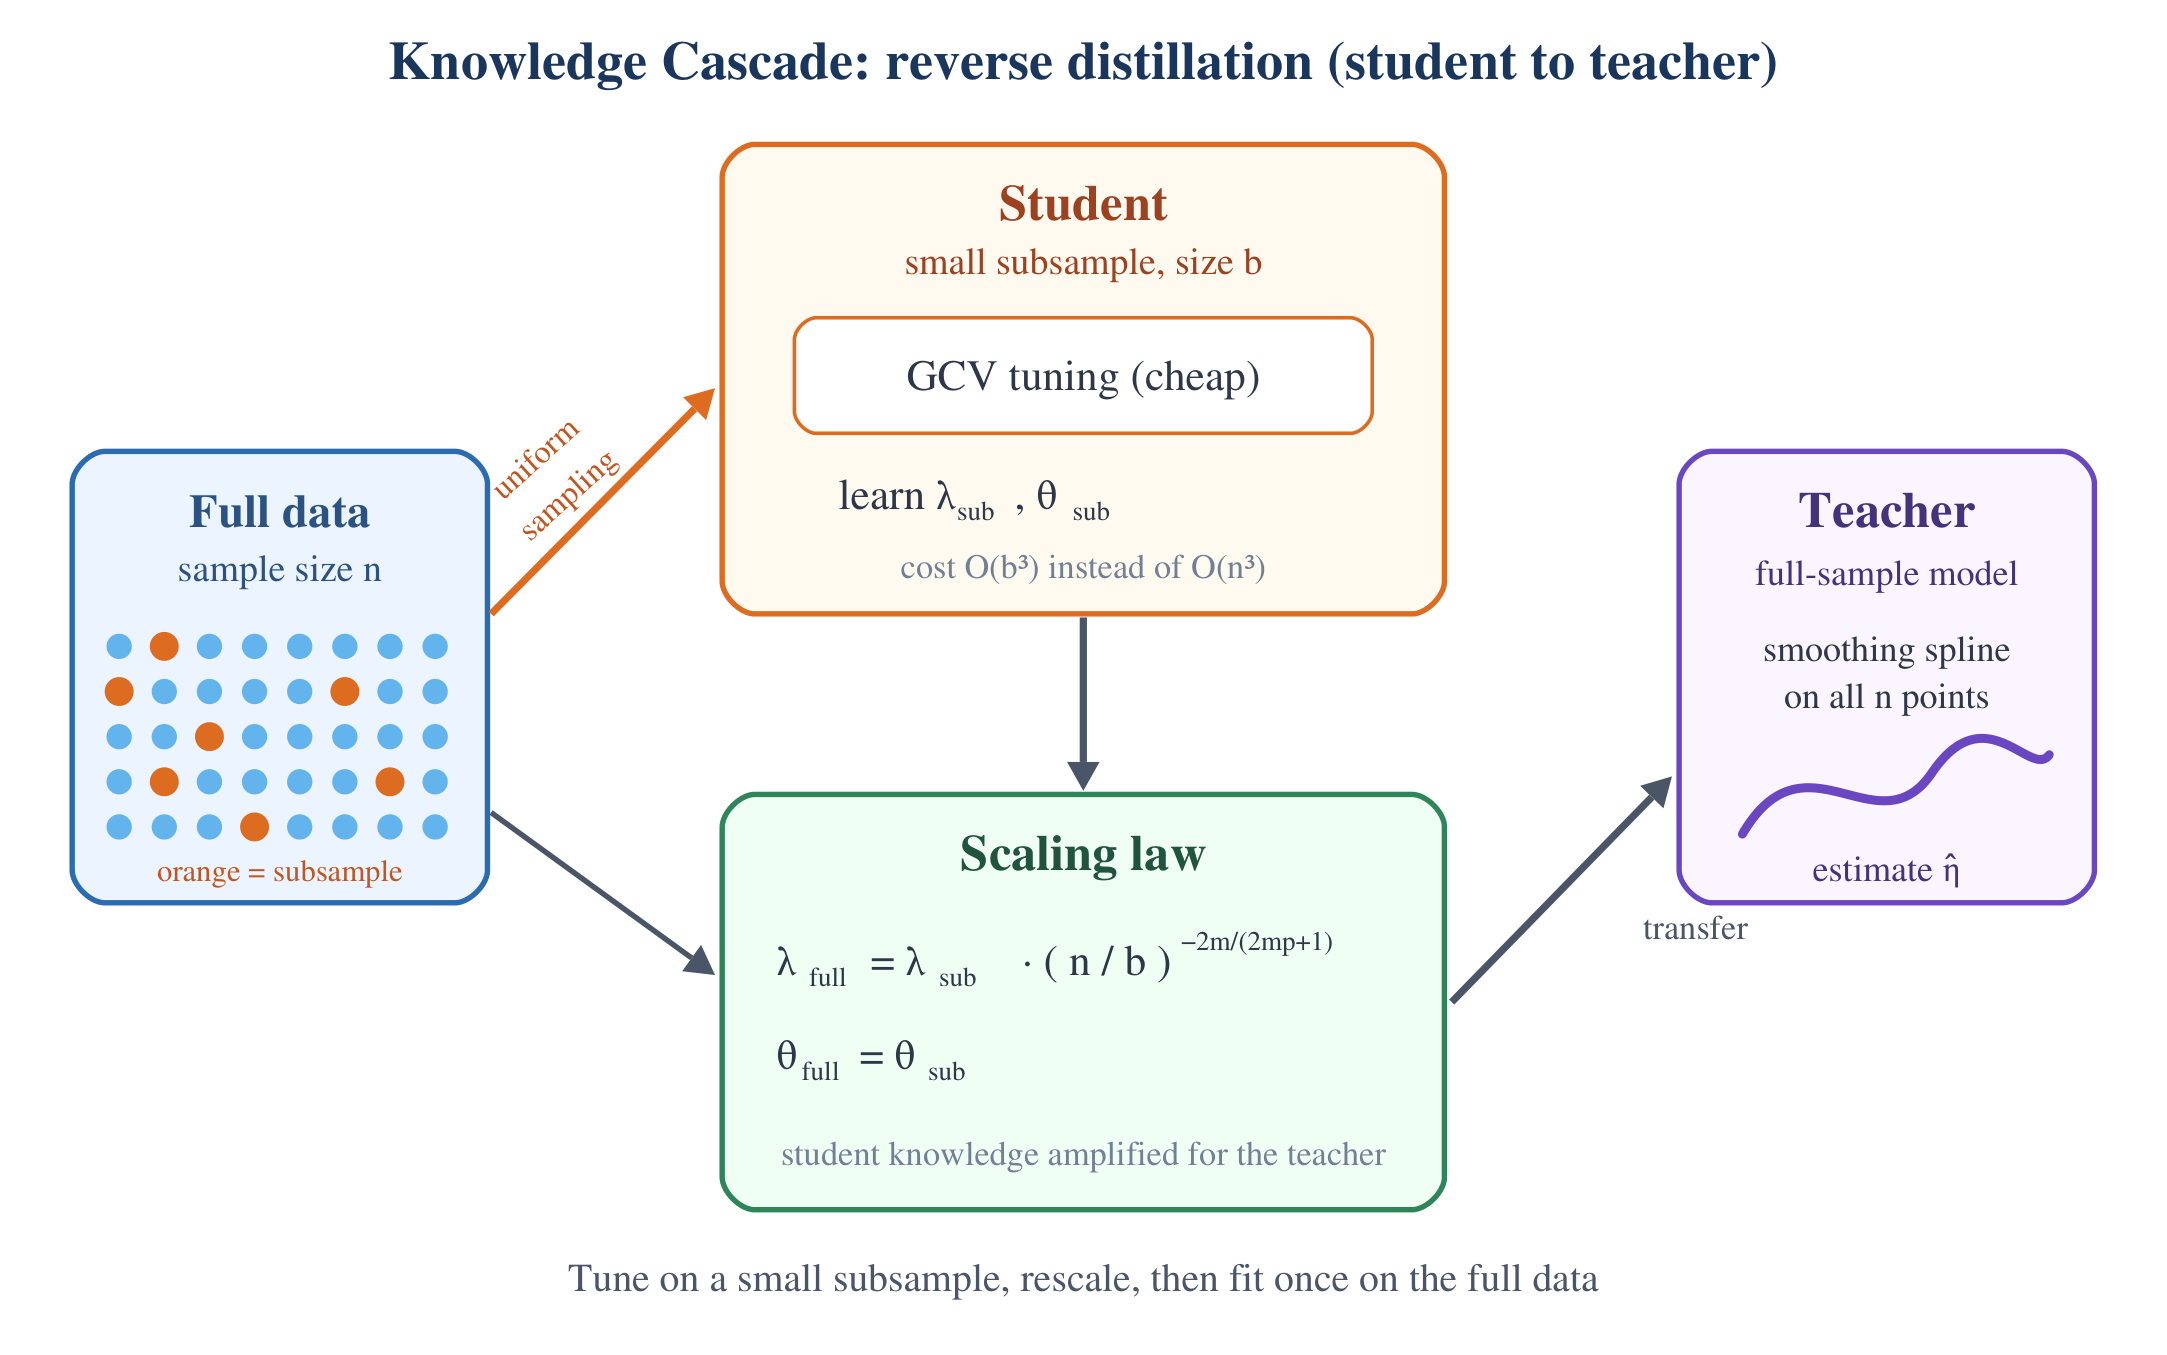
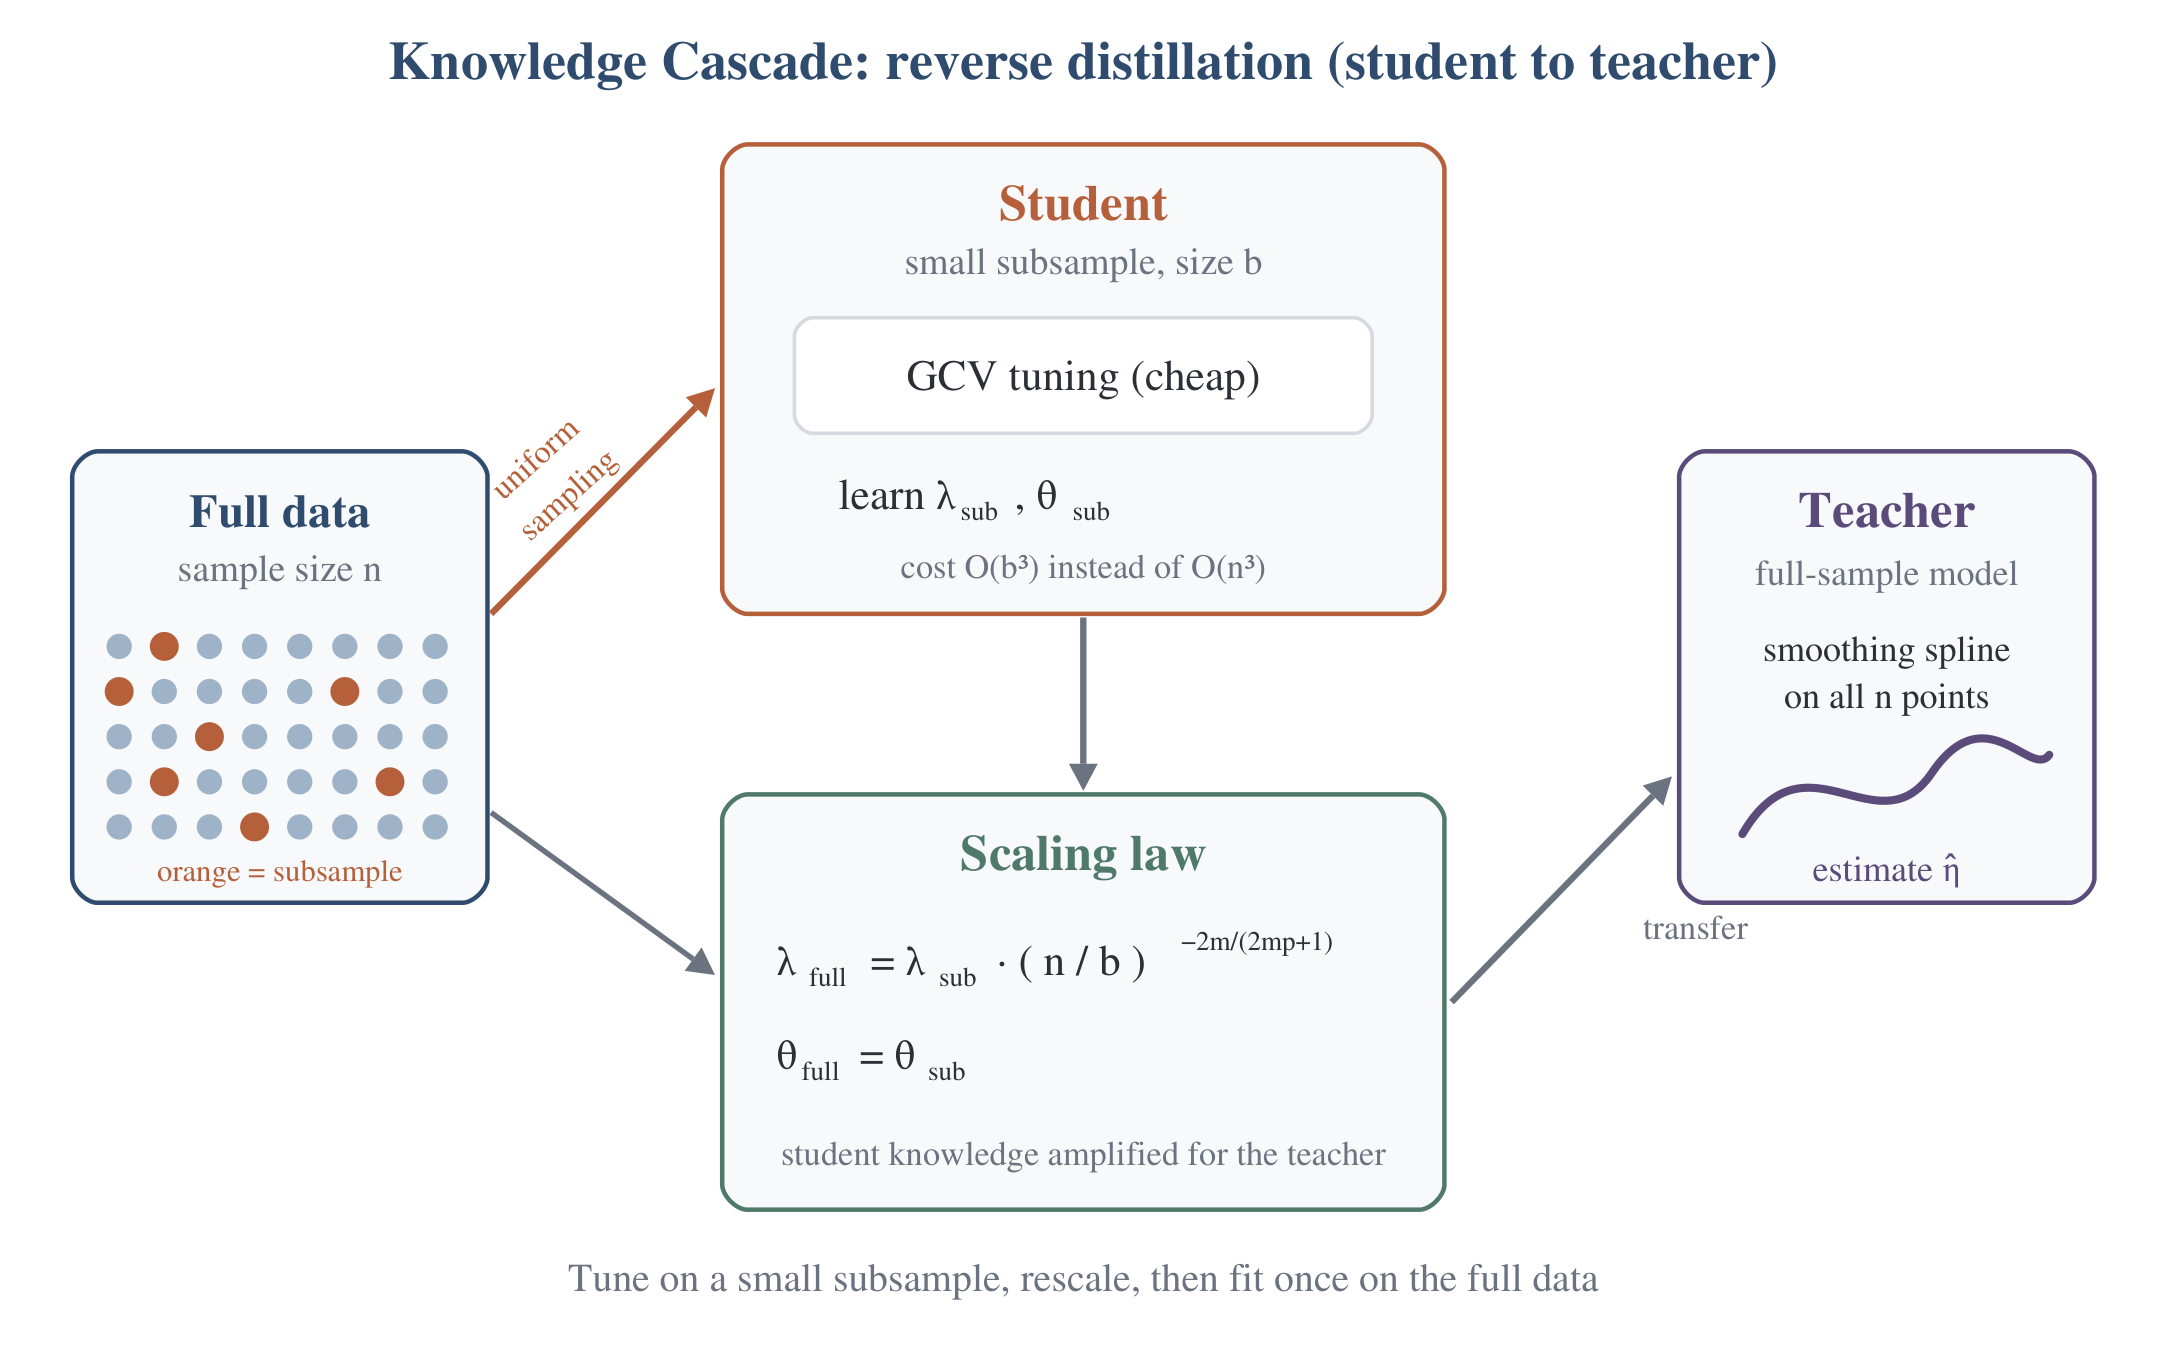
Rename section to Research and restyle Knowledge Cascade figure

diff --git a/_pages/about.md b/_pages/about.md
@@ -22,7 +22,7 @@ Research Interests
 
 {% include video-row.html %}
 
-Selected Research
+Research
 ======
 
 {% include research-cards.html %}
